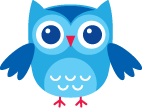
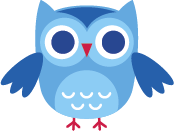
animation owl

diff --git a/src/ii/css/biblionight/style.css b/src/ii/css/biblionight/style.css
@@ -193,43 +193,79 @@ body {
     margin-top: 100px; }
 
 #biblionight .owl {
-  -webkit-animation-name: owlAnimation;
-          animation-name: owlAnimation;
+  position: relative;
+  width: 100%; }
+
+#biblionight .owl-wing-left {
+  position: absolute;
+  left: 370px;
+  top: 50px; }
+
+#biblionight .owl-wing-right {
+  position: absolute;
+  left: 506px;
+  top: 50px; }
+
+#biblionight .owl-eye {
+  position: absolute;
+  width: 22px;
+  height: 22px; }
+
+#biblionight .owl-eyeball {
+  position: absolute;
+  left: 4px;
+  top: 3px;
+  width: 6px;
+  height: 7px; }
+
+#biblionight .owl-eye-left {
+  top: 31px;
+  left: 500px;
+  margin-left: -75px; }
+
+#biblionight .owl-eye-right {
+  top: 31px;
+  left: 481px;
+  margin-left: -5px; }
+
+#biblionight .owl-wing-right {
+  -webkit-animation-name: owlWingLeftAnimation;
+          animation-name: owlWingLeftAnimation;
   -webkit-animation-iteration-count: infinite;
           animation-iteration-count: infinite;
-  -webkit-animation-duration: 10s;
-          animation-duration: 10s;
-  -webkit-transform-origin: 75px 81px;
-      -ms-transform-origin: 75px 81px;
-          transform-origin: 75px 81px; }
+  -webkit-animation-duration: 5s;
+          animation-duration: 5s;
+  -webkit-transform-origin: 20px 0px;
+      -ms-transform-origin: 20px 0px;
+          transform-origin: 20px 0px; }
 
-@-webkit-keyframes owlAnimation {
+@-webkit-keyframes owlWingLeftAnimation {
   from {
     -webkit-transform: rotate(0deg);
             transform: rotate(0deg); }
   33% {
-    -webkit-transform: rotate(30deg);
-            transform: rotate(30deg); }
+    -webkit-transform: rotate(-15deg);
+            transform: rotate(-15deg); }
   66% {
-    -webkit-transform: rotate(-30deg);
-            transform: rotate(-30deg); }
+    -webkit-transform: rotate(-90deg);
+            transform: rotate(-90deg); }
   100% {
-    -webkit-transform: rotate(0deg);
-            transform: rotate(0deg); } }
+    -webkit-transform: rotate(-10deg);
+            transform: rotate(-10deg); } }
 
-@keyframes owlAnimation {
+@keyframes owlWingLeftAnimation {
   from {
     -webkit-transform: rotate(0deg);
             transform: rotate(0deg); }
   33% {
-    -webkit-transform: rotate(30deg);
-            transform: rotate(30deg); }
+    -webkit-transform: rotate(-15deg);
+            transform: rotate(-15deg); }
   66% {
-    -webkit-transform: rotate(-30deg);
-            transform: rotate(-30deg); }
+    -webkit-transform: rotate(-90deg);
+            transform: rotate(-90deg); }
   100% {
-    -webkit-transform: rotate(0deg);
-            transform: rotate(0deg); } }
+    -webkit-transform: rotate(-10deg);
+            transform: rotate(-10deg); } }
 
 #biblionight .date {
   width: 640px;

diff --git a/src/ii/sass/_screen1.sass b/src/ii/sass/_screen1.sass
@@ -30,17 +30,57 @@
 		color: $color_white
 		font-weight: bold
 		margin-top: 100px
+
 .owl
-	animation-name: owlAnimation
-	animation-iteration-count: infinite
-	animation-duration: 10s
-	transform-origin: 75px 81px
-@keyframes owlAnimation 
-	from 
-			transform: rotate(0deg)
-	33% 
-			transform: rotate(30deg)
-	66% 
-			transform: rotate(-30deg)
-	100% 
-			transform: rotate(0deg)
+	position: relative
+	width: 100%
+.owl-wing-left
+	position: absolute
+	left: 370px
+	top: 50px
+.owl-wing-right
+	position: absolute
+	left: 506px
+	top: 50px
+
+.owl-eye
+	position: absolute
+	
+	width: 22px
+	height: 22px
+
+.owl-eyeball
+	position: absolute
+	left: 4px
+	top: 3px
+	width: 6px
+	height: 7px
+
+.owl-eye-left
+	top: 31px
+	left: 500px
+	margin-left: -75px
+
+.owl-eye-right
+	top: 31px
+	left: 481px
+	margin-left: -5px
+
+.owl-wing-right
+  animation-name: owlWingLeftAnimation
+  animation-iteration-count: infinite 
+  animation-duration: 5s
+  transform-origin: 0px 0px
+
+@keyframes owlWingLeftAnimation
+  from
+    transform: rotate(0deg)
+
+  33%
+    transform: rotate(-15deg)
+
+  66%
+    transform: rotate(-90deg)
+
+  100%
+    transform: rotate(-10deg)

diff --git a/src/ii/js/biblionight/script.js b/src/ii/js/biblionight/script.js
@@ -1,4 +1,22 @@
-document.addEventListener('DOMContentLoaded', function(){ // Аналог $(document).ready(function(){
+document.addEventListener('DOMContentLoaded', function(){ 
+	
+	var el1 = document.querySelector('.owl-eye-left'), eyeBall1 = el1.children;
+	var el2 = document.querySelector('.owl-eye-right'), eyeBall2 = el2.children;
+
+	var x1 = el1.getBoundingClientRect().left + 37, y1 = el1.getBoundingClientRect().top + 25;
+	var r = 10, x , y, x2, y2, isEyeProcessed = false;
+	document.addEventListener('mousemove', (function(e) {
+		if (!isEyeProcessed) {
+	 		isEyeProcessed = true;
+	 		var x2 = e.pageX, y2 = e.pageY;
+	 		y = ((r * (y2 - y1)) / Math.sqrt((x2 - x1) * (x2 - x1) + (y2 - y1) * (y2 - y1))) + y1;
+			x = (((y - y1) * (x2 - x1)) / (y2 - y1)) + x1;
+	 		eyeBall2.style.cssText = eyeBall1.style.cssText = 'margin-top: ' + (y - y1 + 1) + 'px; \ margin-left: ' + (x - x1) + 'px;';
+	 		isEyeProcessed = false;
+	 	}
+	}));
+
+
 	var today = new Date(),// получить сегодняшнюю дату
 	selectors = {
 		number: '.number',

diff --git a/src/index.html b/src/index.html
@@ -27,7 +27,12 @@
           </div>
         </header>
         <div class="main__content">
-          <div class="container"><img class="owl" src="/ii/img/biblionight/owl.png" alt=""><img src="/ii/img/biblionight/banner.png" alt=""></div>
+          <div class="container">
+            <div class="owl"><img class="owl-body" src="/ii/img/biblionight/bodyOwl.png" alt=""><img class="owl-wing-left" src="/ii/img/biblionight/wingLeft.png" alt=""><img class="owl-wing-right" src="/ii/img/biblionight/wingRight.png" alt="">
+              <div class="owl-eye-left owl-eye"><img class="owl-eyeball" src="/ii/img/biblionight/eye.png" alt=""></div>
+              <div class="owl-eye-right owl-eye"><img class="owl-eyeball" src="/ii/img/biblionight/eye.png" alt=""></div>
+            </div><img src="/ii/img/biblionight/banner.png" alt="">
+          </div>
           <div class="main__footer">
             <div class="container">
               <p class="text">Читайте больше! Читайте с нами!</p>
